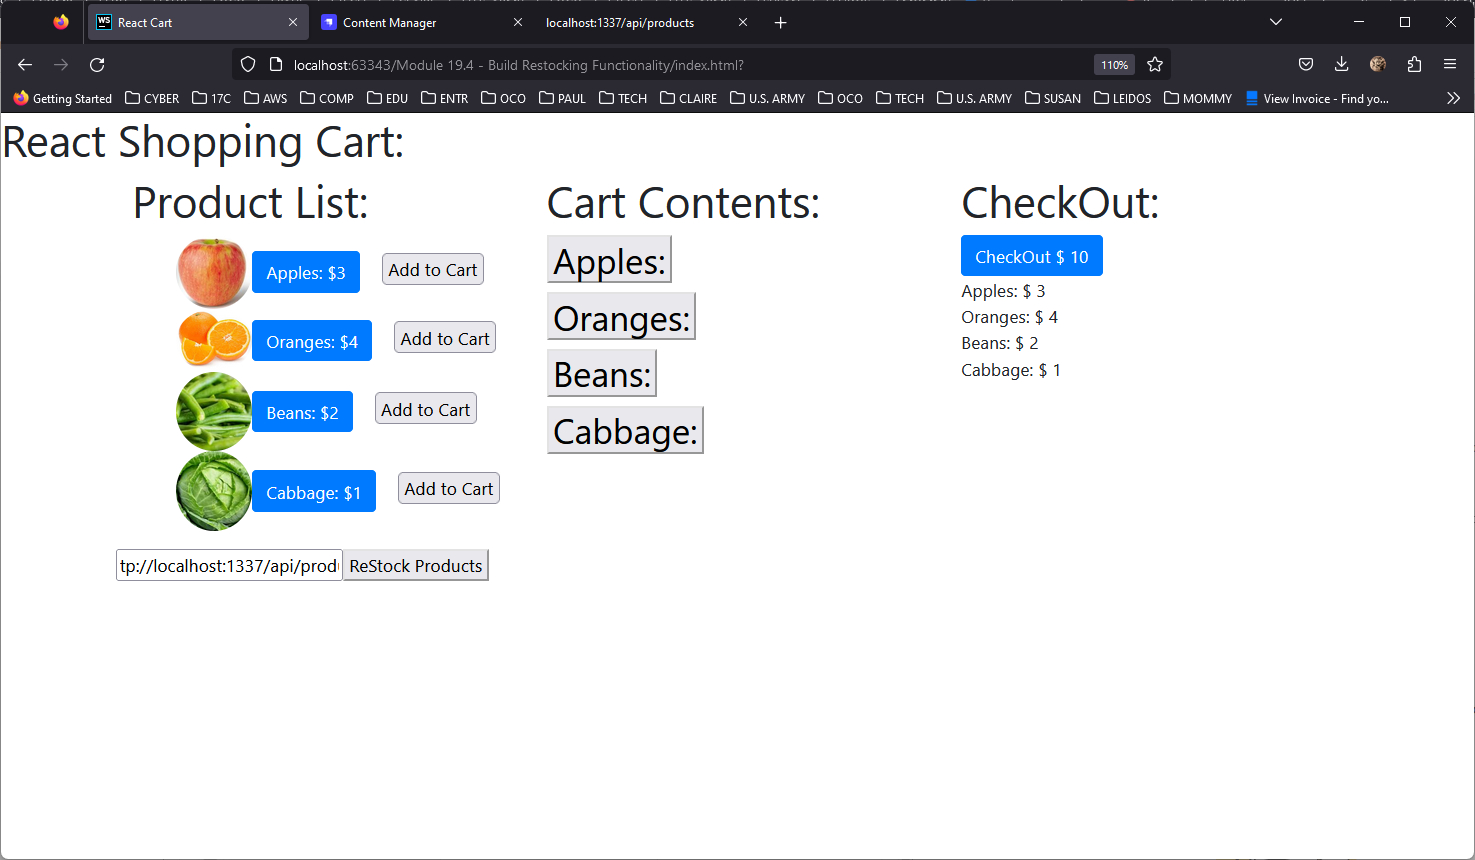
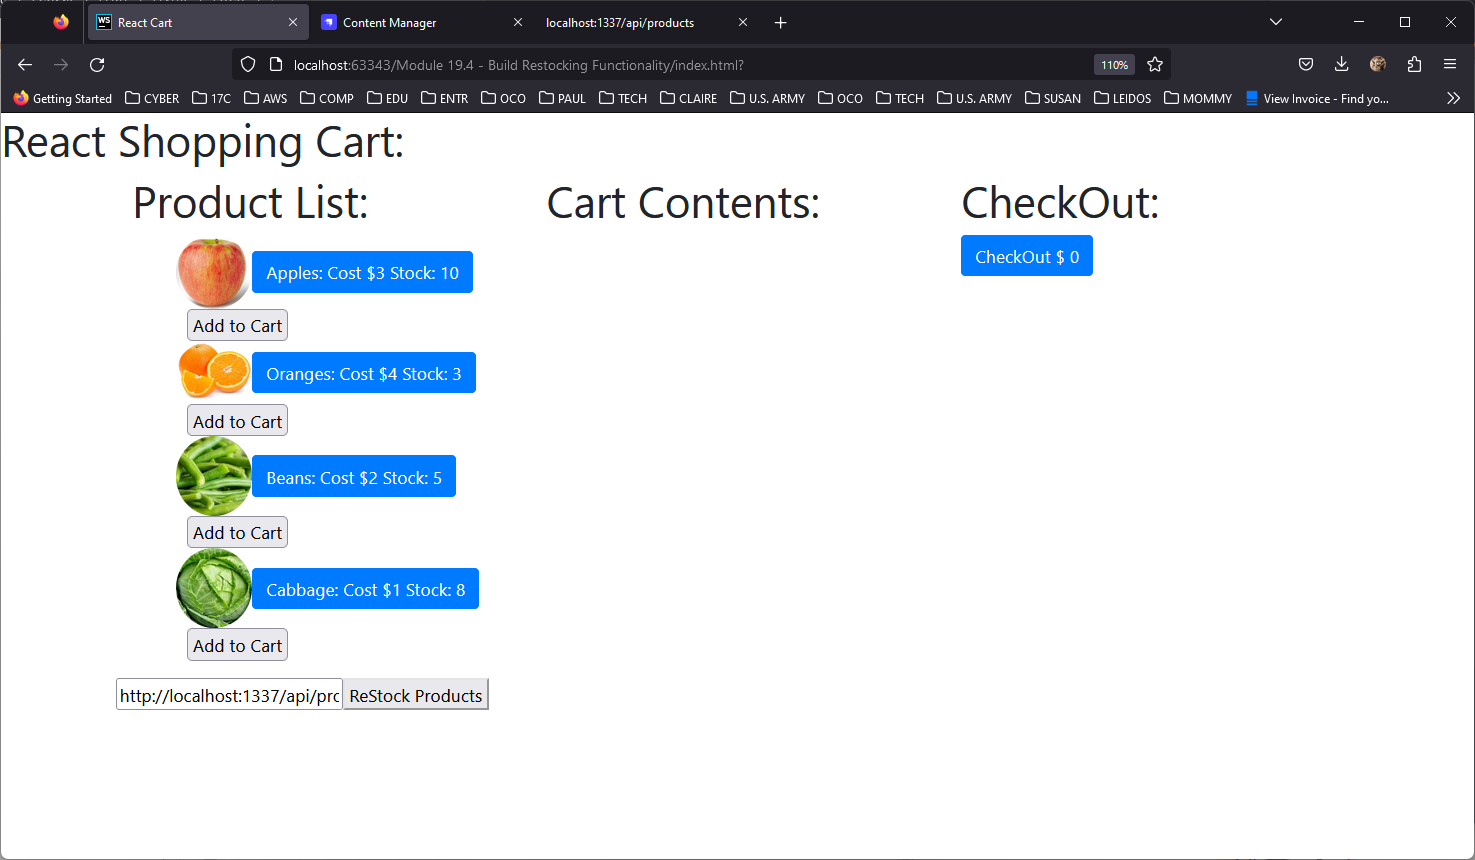
Update the in stock items when placed on checkout

diff --git a/cart.jsx b/cart.jsx
@@ -111,9 +111,17 @@ const Products = (props) => {
     setCart([...cart, ...item]);
     //doFetch(query);
   };
-  const deleteCartItem = (index) => {
-    let newCart = cart.filter((item, i) => index != i);
+  const deleteCartItem = (delIndex) => {
+    // this is the index in the cart not in the Product List
+
+    let newCart = cart.filter((item, i) => delIndex != i);
+    let target = cart.filter((item, index) => delIndex == index);
+    let newItems = items.map((item, index) => {
+      if (item.name == target[0].name) item.instock = item.instock + 1;
+      return item;
+    });
     setCart(newCart);
+    setItems(newItems);
   };
   const photos = ["apple.png", "orange.png", "beans.png", "cabbage.png"];
 

diff --git a/README.md b/README.md
@@ -53,7 +53,19 @@ Console Output while adding items to the cart.
 
 ![Screen_Shots_02.png](Screen_Shots%2FScreen_Shots_02.png)
 
-Web Page Rendering and adding items to the shopping Cart.
+Web Page Rendering while items haven't been added to the shopping Cart.
+
+![Screen_Shots_03.png](Screen_Shots%2FScreen_Shots_03.png)
+
+Web Page Rendering when each item has been added to the shopping Cart. Notice the number in stock are reduced for each item.
+
+![Screen_Shots_04.png](Screen_Shots%2FScreen_Shots_04.png)
+
+When an item in the shopping cart is selected, it drops down a description of the item's cost and when the description is selected it removes the item from the shopping cart and updates the stock again with the returned amount. Notice the stock for Apples is back to `10` and for Oranges it is `3`, and also the items and total in CheckOut have been updated as well.
+
+![Screen_Shots_05.png](Screen_Shots%2FScreen_Shots_05.png)
+
+Clicking on the "ReStock Products" button just resets all the items back in stock and any items in the shopping cart are removed.
 
 ![Screen_Shots_03.png](Screen_Shots%2FScreen_Shots_03.png)
 
